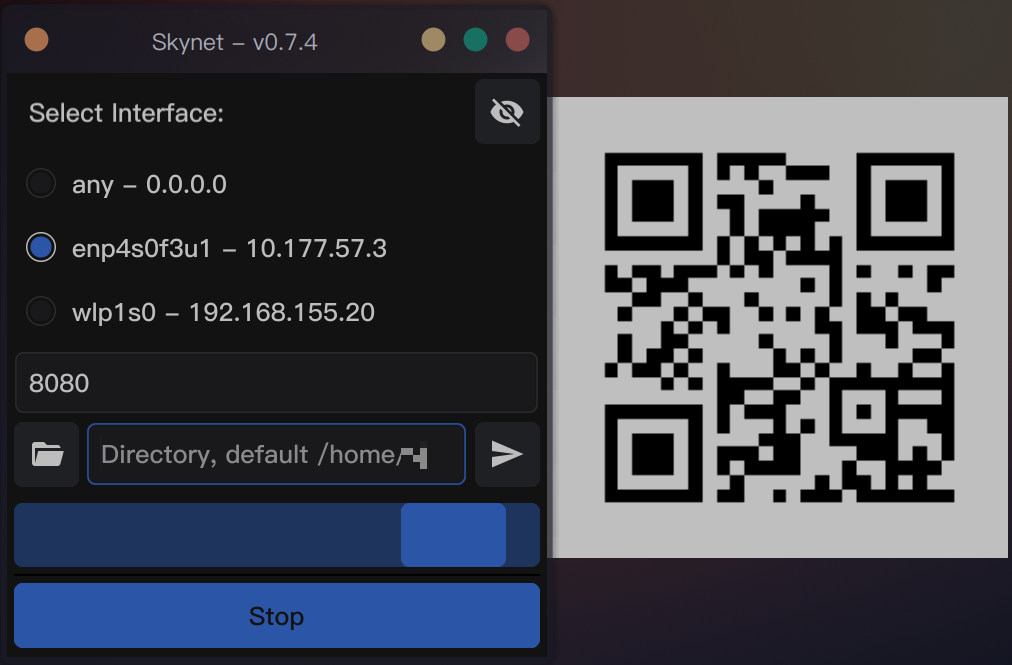
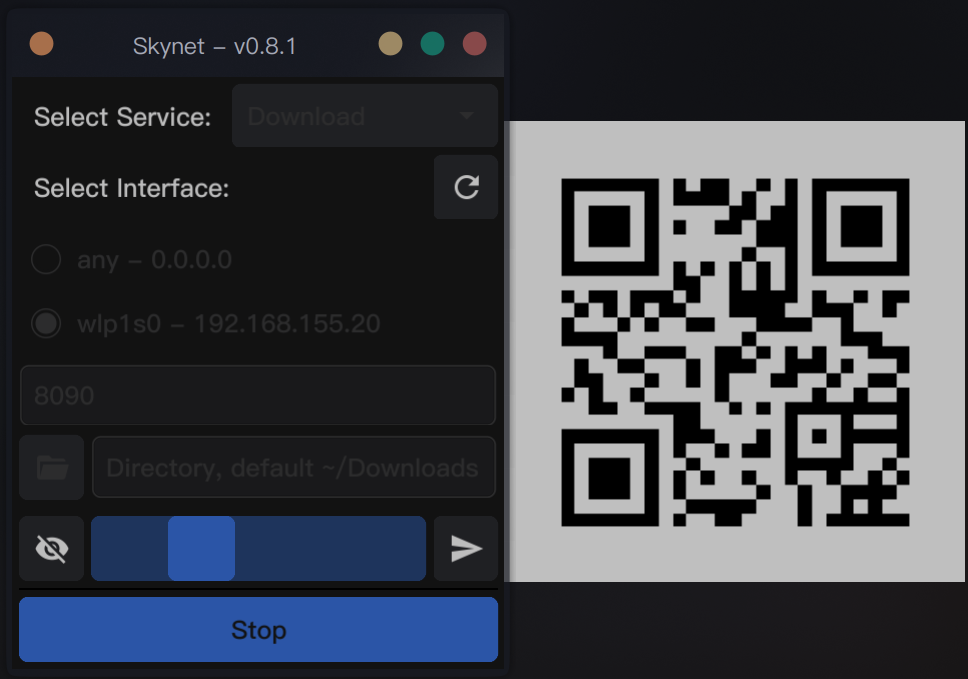
更新README

diff --git a/README.md b/README.md
@@ -73,6 +73,13 @@
 
 ![Skynet GUI version](resources/screenshots/gui-version.png)
 
+- 'Select Service': 选择服务模式，可选值为下载服务'Download'、上传服务'Upload'和上传/下载服务都开启的'All'
+- 'Select Interface': 选择网络接口，服务在选择的接口上启动。右侧是刷新接口列表的按钮
+- 'Port': 端口设置框，服务绑定到指定的端口
+- 'Directory': 服务路径设置，选定的服务在此路径上启动。左侧是打开路径选择器'Direcctory Selection'的按钮
+- '状态栏': 蓝色无文字的是状态栏，代表了服务的运行状态。其左侧是二维码的显示/隐藏按钮，右侧是在默认浏览器打开服务地址的按钮
+- 'Start/Stop按钮': 服务的启动/停止按钮，服务未启动显示'Start'，服务启动后显示'Stop'
+
 ## Compile
 
 ### 当前平台
